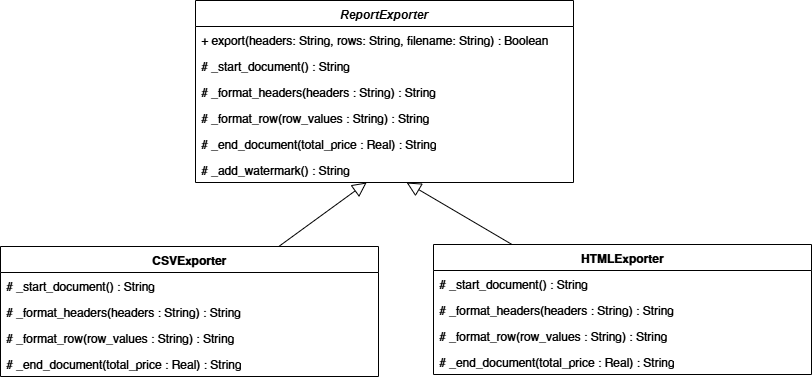
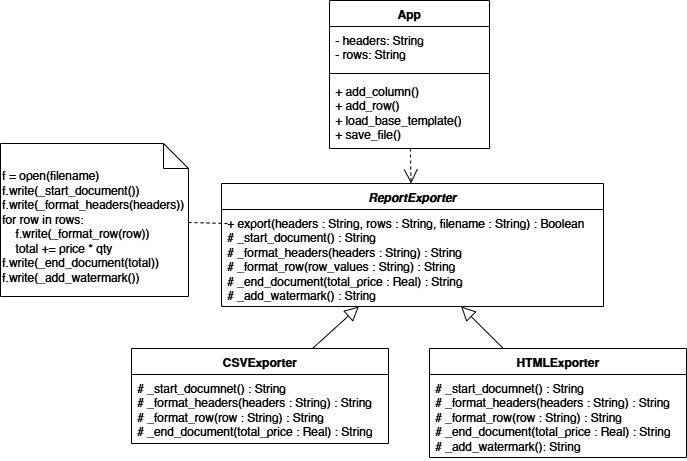
Upd lab03

diff --git a/lab03/main.py b/lab03/main.py
@@ -1,52 +1,54 @@
 import tkinter as tk
 from tkinter import ttk, messagebox, filedialog
 
+import no_pattern_exporter as legacy
 from exporters import CSVExporter, HTMLExporter
+
 
 class App:
     def __init__(self, root):
         self.root = root
-        self.root.title("Data Reporter Pro")
-        self.root.geometry("850x600")
+        self.root.title("Data Reporter")
+        self.root.geometry("850x650")
 
         self.headers = ["ID", "Товар", "Кол-во", "Цена"]
         self.rows = []
 
         top_frame = tk.Frame(root, pady=10)
         top_frame.pack(fill="x", padx=15)
-
         tk.Label(top_frame, text="Колонка:").pack(side="left")
         self.col_entry = tk.Entry(top_frame, width=15)
         self.col_entry.pack(side="left", padx=5)
         tk.Button(top_frame, text="Добавить колонку", command=self.add_column).pack(side="left")
-        
-        tk.Button(top_frame, text="Загрузить базовый шаблон", command=self.load_base_template, bg="#eee").pack(side="right")
+        tk.Button(top_frame, text="Загрузить шаблон", command=self.load_base_template).pack(side="right")
 
         mid_frame = tk.Frame(root)
         mid_frame.pack(fill="both", expand=True, padx=15)
-
         self.tree = ttk.Treeview(mid_frame, show="headings")
-        self.tree.pack(side="left", fill="both", expand=True)
+        self.tree.pack(fill="both", expand=True)
         self._refresh_tree_headers()
 
-        input_frame = tk.LabelFrame(root, text=" Добавить строку данных (через запятую) ", padx=10, pady=10)
+        input_frame = tk.LabelFrame(root, text=" Добавить строку ", padx=10, pady=10)
         input_frame.pack(fill="x", padx=15, pady=10)
-
         self.row_entry = tk.Entry(input_frame, font=("Arial", 11))
         self.row_entry.pack(side="left", fill="x", expand=True, padx=5)
+        tk.Button(input_frame, text="Добавить", command=self.add_row, bg="#e3f2fd").pack(side="left", padx=5)
+
+        mode_frame = tk.LabelFrame(root, text=" Режим работы программы ", padx=10, pady=10)
+        mode_frame.pack(fill="x", padx=15, pady=5)
         
-        tk.Button(input_frame, text="Добавить", command=self.add_row, width=15, bg="#e3f2fd").pack(side="left", padx=5)
-        tk.Button(input_frame, text="Удалить", command=self.delete_row).pack(side="left")
+        self.mode_var = tk.StringVar(value="pattern")
+        tk.Radiobutton(mode_frame, text="С ПАТТЕРНОМ", variable=self.mode_var, value="pattern", fg="green", font=("Arial", 10, "bold")).pack(side="left")
+        tk.Radiobutton(mode_frame, text="БЕЗ ПАТТЕРНА", variable=self.mode_var, value="legacy", fg="red").pack(side="left", padx=20)
 
         bottom_frame = tk.Frame(root, pady=10)
         bottom_frame.pack(fill="x", padx=15)
-
         self.format_var = tk.StringVar(value="CSV")
         tk.Radiobutton(bottom_frame, text="Excel (CSV)", variable=self.format_var, value="CSV").pack(side="left")
         tk.Radiobutton(bottom_frame, text="Web (HTML)", variable=self.format_var, value="HTML").pack(side="left", padx=10)
         
         tk.Button(bottom_frame, text="СОХРАНИТЬ ОТЧЕТ", command=self.save_file, 
-                  bg="#2e7d32", fg="white", font=("Arial", 10, "bold"), padx=20).pack(side="right")
+                bg="#2e7d32", fg="white", font=("Arial", 10, "bold"), padx=20).pack(side="right")
 
     def _refresh_tree_headers(self):
         self.tree["columns"] = self.headers
@@ -64,24 +66,14 @@ class App:
     def add_row(self):
         vals = [v.strip() for v in self.row_entry.get().split(",")]
         if len(vals) != len(self.headers):
-            messagebox.showwarning("Ошибка", f"Нужно ввести {len(self.headers)} значений через запятую")
+            messagebox.showwarning("!", f"Нужно {len(self.headers)} значений")
             return
         self.rows.append(vals)
         self.tree.insert("", tk.END, values=vals)
 
-    def delete_row(self):
-        for s in self.tree.selection():
-            idx = self.tree.index(s)
-            self.tree.delete(s)
-            self.rows.pop(idx)
-
     def load_base_template(self):
         self.headers = ["ID", "Товар", "Кол-во", "Цена"]
-        self.rows = [
-            ["1", "MacBook Air", "1", "120000"],
-            ["2", "iPhone 15", "2", "90000"],
-            ["3", "AirPods", "3", "25000"]
-        ]
+        self.rows = [["1", "MacBook", "1", "120000"], ["2", "iPhone", "2", "90000"]]
         self._refresh_tree_headers()
         self.tree.delete(*self.tree.get_children())
         for r in self.rows: self.tree.insert("", tk.END, values=r)
@@ -89,14 +81,21 @@ class App:
     def save_file(self):
         if not self.rows: return
         fmt = self.format_var.get()
+        mode = self.mode_var.get()
         ext = ".csv" if fmt == "CSV" else ".html"
-        
-        exporter = CSVExporter() if fmt == "CSV" else HTMLExporter()
-        
         path = filedialog.asksaveasfilename(defaultextension=ext, filetypes=[(fmt, f"*{ext}")])
-        if path:
-            if exporter.export(self.headers, self.rows, path):
-                messagebox.showinfo("Успех", f"Отчет сохранен!\nПуть: {path}")
+        if not path: return
+
+        if mode == "pattern":
+            exporter = CSVExporter() if fmt == "CSV" else HTMLExporter()
+            exporter.export(self.headers, self.rows, path)
+        else:
+            if fmt == "CSV":
+                legacy.export_to_csv_no_pattern(self.headers, self.rows, path)
+            else:
+                legacy.export_to_html_no_pattern(self.headers, self.rows, path)
+        
+        messagebox.showinfo("Успех", f"Отчет сохранен (Режим: {mode})")
 
 if __name__ == "__main__":
     root = tk.Tk()

diff --git a/lab03/no_pattern_exporter.py b/lab03/no_pattern_exporter.py
@@ -1,0 +1,56 @@
+import messagebox
+
+def export_to_csv_no_pattern(headers, rows, filename):
+    """Реализация экспорта в CSV без использования паттерна"""
+    try:
+        h_lower = [h.lower().strip() for h in headers]
+        price_idx = h_lower.index("цена") if "цена" in h_lower else -1
+        qty_idx = h_lower.index("кол-во") if "кол-во" in h_lower else -1
+        total_sum = 0.0
+
+        with open(filename, 'w', encoding='utf-8') as f:
+            f.write(",".join(headers) + "\n")
+            
+            for row in rows:
+                f.write(",".join(row) + "\n")
+                if price_idx != -1 and qty_idx != -1:
+                    try:
+                        total_sum += float(row[price_idx]) * float(row[qty_idx])
+                    except: pass
+            
+            f.write(f"\nИТОГО,,,{total_sum:.2f}\n")
+        return True
+    except Exception as e:
+        messagebox.showerror("Ошибка", str(e))
+        return False
+
+def export_to_html_no_pattern(headers, rows, filename):
+    """Реализация экспорта в HTML без использования паттерна"""
+    try:
+        h_lower = [h.lower().strip() for h in headers]
+        price_idx = h_lower.index("цена") if "цена" in h_lower else -1
+        qty_idx = h_lower.index("кол-во") if "кол-во" in h_lower else -1
+        total_sum = 0.0
+
+        with open(filename, 'w', encoding='utf-8') as f:
+            f.write("<html><body><table border='1'><tr>")
+            for h in headers:
+                f.write(f"<th>{h}</th>")
+            f.write("</tr>")
+            
+            for row in rows:
+                f.write("<tr>")
+                for val in row:
+                    f.write(f"<td>{val}</td>")
+                f.write("</tr>")
+                
+                if price_idx != -1 and qty_idx != -1:
+                    try:
+                        total_sum += float(row[price_idx]) * float(row[qty_idx])
+                    except: pass
+            
+            f.write(f"</table><h3>ОБЩАЯ СУММА: {total_sum:.2f}</h3></body></html>")
+        return True
+    except Exception as e:
+        messagebox.showerror("Ошибка", str(e))
+        return False

diff --git a/lab03/exporters.py b/lab03/exporters.py
@@ -46,7 +46,7 @@ class ReportExporter(ABC):
     def _format_headers(self, headers): pass
 
     @abstractmethod
-    def _format_row(self, row_values): pass
+    def _format_row(self, row): pass
 
     @abstractmethod
     def _end_document(self, total_price): pass

diff --git a/lab03/README.md b/lab03/README.md
@@ -1,0 +1,74 @@
+# Лабораторная работа 4. Реализация паттерна «Шаблонный метод» на Python
+
+## Цель работы
+* Изучить концепцию поведенческих паттернов проектирования, в частности паттерна «Шаблонный метод».
+* Реализовать скелет алгоритма для экспорта данных, позволяя изменять отдельные шаги формирования документа без изменения общей структуры.
+* Разработать GUI-приложение для демонстрации работы паттерна на примере генератора отчетов.
+
+## Описание предметной области
+В рамках работы разработан Data Reporter - универсальный конструктор отчетов. Приложение позволяет пользователю динамически формировать структуру таблицы (добавлять колонки и строки), рассчитывать итоговую сумму по чеку и экспортировать результат в различные форматы (CSV, HTML).
+
+## Архитектурное решение
+Для решения задачи выбран паттерн **Шаблонный метод**.
+
+**Основные компоненты:**
+* Класс `ReportExporter`: определяет шаблонный метод `export()`, который задает последовательность шагов (открытие файла, запись заголовка, итерация по строкам с расчетом суммы, запись футера).
+* Классы `CSVExporter` и `HTMLExporter`: реализуют специфические шаги форматирования данных под конкретные стандарты файлов (разделители-запятые для Excel или теги `<table>` для веба).
+* Класс `App`: графический интерфейс, предоставляющий пользователю инструменты для управления данными и выбора способа экспорта.
+
+## Диаграмма классов
+![Диаграмма классов](дк.png)
+
+Абстрактный класс ReportExporter реализует скелет алгоритма в методе export(), обеспечивая единообразие процесса сохранения файлов любого формата. Классы CSVExporter и HTMLExporter переопределяют низкоуровневые шаги форматирования строк, не вмешиваясь в логику перебора данных или расчет итоговой суммы. Класс App взаимодействует с абстракцией ReportExporter.
+
+## Реализация паттерна
+Главная логика паттерна сосредоточена в базовом классе, который управляет процессом, вызывая методы-заглушки наследников:
+
+```csharp
+// Шаблонный метод в абстрактном классе ReportExporter
+def export(self, headers, rows, filename):
+    with open(filename, 'w', encoding='utf-8') as f:
+        // Инвариантные шаги и вызов вариативных методов
+        f.write(self._start_document())
+        f.write(self._format_headers(headers))
+        
+        // Общая логика расчета, скрытая от наследников
+        total_sum = self._calculate_total(rows) 
+        
+        for row in rows:
+            f.write(self._format_row(row))
+            
+        f.write(self._end_document(total_sum))
+        
+        watermark = self._add_watermark()
+        if watermark: f.write(watermark)
+```
+
+## Сравнение режимов (без паттерна и с паттерном)
+Для наглядной демонстрации встроен переключатель режимов.
+
+### Вариант без паттерна:
+Каждая функция экспорта (export_to_csv, export_to_html) содержит дублирующийся код. При таком подходе:
+* Повторение логики открытия/закрытия файлов.
+* Дублирование алгоритма поиска индексов колонок цена и кол-во.
+* Дублирование математических расчетов суммы.
+* Изменение формулы расчета требует правки кода во всех функциях одновременно.
+
+### Вариант с паттерном:
+* Математика и логика обхода данных написаны один раз.
+* Наследники занимаются только строками (текстом), они не знают о существовании файлов или расчетах.
+* Добавление нового формата требует реализации только правил оформления строки, а не всего процесса целиком.
+
+## Описание пользовательского интерфейса
+Интерфейс приложения разделен на три логические зоны:
+
+1. Настройка структуры: поле добавления произвольных колонок и кнопка сброса к базовому шаблону.
+2. Редактор данных: таблица для визуального контроля и панель ввода новых строк через запятую.
+3. Панель управления: выбор режима реализации, выбор формата и кнопка сохранения.
+
+![alt text](image.png)
+
+## Выводы
+В ходе выполнения работы был реализован паттерн «Шаблонный метод» на языке Python.
+
+Применение паттерна позволило отделить стабильный алгоритм формирования финансового отчета от часто меняющихся деталей представления данных. Это обеспечило высокую связность кода и упростило поддержку приложения: расчеты итогов надежно защищены в базовом классе, а визуальное оформление документов легко расширяется через наследование.
